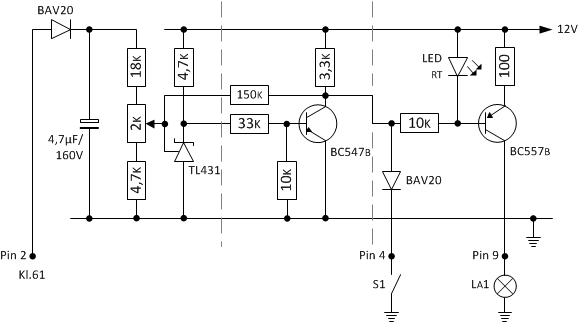
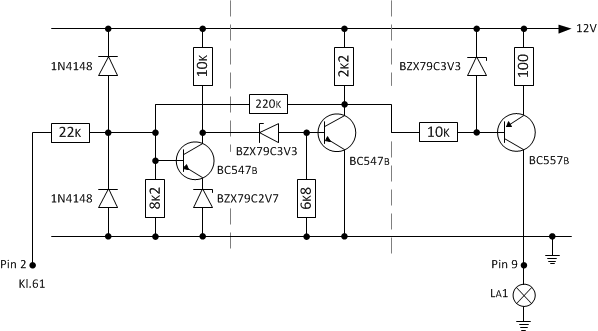
Update Indicator

diff --git a/pages/kontrollanzeige_1.md b/pages/kontrollanzeige_1.md
@@ -17,131 +17,125 @@ Die folgende Beispielschaltung soll an einem Fahrzeug mit 12V-Netz eine Kontroll
 ![Lade-/Öldruckkontrollanzeige](../images/Kontrollanzeige.png)
 
 ## Messen der Spannung an Kl.61
-Im Internet gibt es hierzu Beispielkonfiguration auf Basis eines TL431AC. Der TL431 ist laut Datenblatt [tl431.pdf](http://www.ti.com/lit/ds/symlink/tl431.pdf) eine "Programmable Voltage Reference", arbeitet im Prinzip als einstellbare Z-Diode. Der Baustein ist klein genug um kommt im TO92 Gehäuse daher. Mit einem
-Spannungsteiler an Vref lässt sich stufenlos eine Spannung zwischen circa 2,5V und 36V einstellen. Da intern ein Operationsverstärker genutzt wird, schaltet der TL431 mit hoher Genauigkeit.
+Im Internet gibt es hierzu Beispielschaltungen auf Basis eines NPN Transistor mit Z-Diode als Regeler. Die Schaltung arbeitet im Prinzip als einstellbare Z-Diode. Mit einem Spannungsteiler an Uref lässt sich stufenlos eine Spannung größer Uref einstellen. Die Referenzspannung Uref beträgt bei Nutzung einer Z-Dode von 2,7V und Ube von 0,7V (bei Ib = 10mA und Ib = 0,5mA) einen Wert von 3,4V:
 
-Der Spannungsteiler aus R1 und R2 lässt sich mit folgender Formel bestimmen.
+    Uref = Uz + Ube
+         = 2,7V + 0,7V
+         = 3,4V
 
-    Vin = (1+(R1/R2))*Vref
+Für einen Kollektorstrom von ca. 1mA wird nur ein schwacher Eingangsbasisstrom Ib (abhängig vom Gleispannungsverstärkung des Transistor siehe Datenblatt) von ca. 20 bis 40 μA benötigt, daher sollten R1 und R2 im Bereich kOhm liegen. Ein Spannungsverteilerverhältnis aus der E24-Normwerten 22k und 8,2k bringt den Transistor bei Uin = 12,5V zum schalten. Die Werte lassen sich mit folgender Formel bestimmen: 
 
-Durch die eng tolerierte Referenzspannung Vref von typischerweise 2,495V (siehe Datenblatt) und den schwachen Eingangsstrom an Vref (Iref) von 2 bis 4 μA (siehe Datenblatt) lässt sich der Spannungsteiler ziemlich genau berechnen. Mit den Normwerten 33k und 8,2k schaltet der TL431 bei Vin = 12,5V zwischen Katode und Anode durch.
+    Uin = (1 + R1/R2) * Uref
+        = (1 + 22k/8,2k) * 3,4V
+        = 12,5V
 
 ![Messen der Spannung an Kl.61 Abb. 1](../images/Messung_Spannung_Kl.61_1.png)
 
-Zum Schutz vor negativen Spannungsspitzen (bis zu -100V) wird zusätzlich eine Diode vom Typ BAV20 eingesetzt. Ein Kondensator (4,7μF / 160V) puffert bei kurzen Spannungseinbrüchen. An der Diode fällt in Durchlassrichtung eine Spannung von Uf = 0,8V ab (Vin ist somit 11,8V). Für eine Feinanpassung kann ein Potenziometer mit 2k eingesetzt werden. Mit den Normwerten von 18k und 4,7k und unter Berücksichtigung von Uf inkl. Toleranzen (E24-Normreihe mit 5% Toleranz) kann mit dem Potentiometer P1 in jedem Fall die gewünschte Spannungsschaltwerte von 12,6V eingestellt werden.
+Zum Schutz vor positiven und negativen Spannungsspitzen werden zusätzlich Dioden vom Typ 1N4148 am Punkt Uref eingesetzt.
 
-![Messen der Spannung an Kl.61 Abb. 2](../images/Messung_Spannung_Kl.61_2.png)
+Die Z-Diode soll bei allen Spannungen (Arbeitsbereich vom Instrument 10-15V) zuverlässig arbeitet. Um einen geringen Temperaturkoeffizient für eine Z-Diode von 2,7V zu erhalten (siehe Datenblatt) sollte R3 so dimensioniert sein, dass der Strom durch die Z-Diode ca. 1 mA beträgt. Zu beachten ist, dass die Regelschaltung mit Z-Diode die unpraktische Eigenschaft hat, dass die Spannung am Kollektor im durchgeschalteten Zustand nicht unter Uz sinken kann.
 
-Der TL431 soll bei allen Spannungen (Arbeitsbereich vom Instrument 10-15V) zuverlässig arbeitet. R4 muss so Dimensioniert sein, dass der Strom zwischen Katode und Anode Ika mindestens 1 mA und maximal 100 mA beträgt (siehe Datenblatt). Zu beachten ist, dass eine Anwendung des TL431 als Komparator die unpraktische Eigenschaft hat, dass die Spannung Vout im durchgeschalteten Zustand nicht unter Vka sinken kann.
+    R3(max) = (Umin-Ube-Uz)/Iz = 10V-0,2V-2,7V / 1mA = 7,1kOhm
+    R3(min) = (Umax-Ube-Uz)/Iz = 15V-0,2V-2,7V / 1mA = 12,1kOhm
 
-    R3(max) = (Vmin-Vka)/Ika(min) = 10V-2,5V / 1mA = 7,5kOhm
-    R3(min) = (Vmax-Vka)/Ika(max) = 15V-2,5V / 100mA = 125Ohm
-
-Bei einer Versorgungsspannung von 10-15V und einem Widerstand R3 von ca. 4,7kOhm beträgt der Strom zwischen Katode und Anode ca. 1,6 (bei 10V) bis 2,7mA (bei 15V).
+Bei einer Versorgungsspannung von 10-15V und einem Widerstand R3 von ca. 10kOhm beträgt der Kollektorstrom ca. 0,7mA (bei 10V) bis 1,2mA (bei 15V).
 
 ## Schalten der Versorgungsspannung
 Die Kontrollleuchte ist im Instrument gegen Masse geschaltet. Sie erfordert also das schalten Versorgungsspannung. Da dies weiterhin elektronisch passieren soll, nutzen wir hierzu ein PNP-Transistor. Hier liegt der Emitter an der Versorgungsspannung vom Fahrzeug (Kl. 30).
 
-Zur Anwendung kommt ein Transistor Typ BC557B (Datenblatt: [BC560.pdf](https://www.fairchildsemi.com/ds/BC/BC560.pdf)) der die Kontrollleuchte La1 bei 12V mit einer gemessenen Last von 2,7kOhm schalten soll. Vorteil des Transistors hier ist, dass der Spannungsabfall am Transistor bei _Durchschaltung_ nur ca. 0,1V bis 0,6V beträgt. 
+Zur Anwendung kommt ein Transistor Typ BC557B (Datenblatt: [BC560.pdf](https://www.fairchildsemi.com/ds/BC/BC560.pdf)) der die Kontrollleuchte La1 bei 12V mit einer gemessenen Last von 2,7kOhm schalten soll. Vorteil des Transistors hier ist, dass der Spannungsabfall Uce(sat) am Transistor bei _Durchschaltung_ nur ca. 0,3V bis 0,65V beträgt. 
 
 ![Schalten der Versorgungsspannung Abb. 1](../images/Schalten_der_Versorgungsspannung_1.png)
 
-Die Steuerspannungen Vbe am Transistor bezieht sich bei einem PNP-Transistor auf die positive Versorgungsspannung und nicht auf Masse. Ein PNP immer schaltet dann durch, wenn Vbe die Schaltschwelle unterschreiten, also Vin um Vbe kleiner ist als die Spannung Ve am Emitter.
+Die Steuerspannungen Ube am Transistor bezieht sich bei einem PNP-Transistor auf die positive Versorgungsspannung und nicht auf Masse. Ein PNP immer schaltet dann durch, wenn Vbe die Schaltschwelle unterschreiten, also Uin um Ube kleiner ist als die Spannung Ue am Emitter.
 
-Der Basiswiderstand R7 berechnet sich aus (Vbat-Vbe) / Ib. Etwas versteckt bei den Daten und der Kennlinie zu Vce(sat) (der Kollektor-Emitter-Sättigungsspannung) findet man eine Referenzwert für die Sättigung von Ic = 20*Ib. D.h. gerechnet wird mit einer Stromverstärkung in Sättigung von 20. Da nur kleine Ströme fließen (Ic < 10 mA und somit Ib < 0,5 mA) wird Vce(sat) mit dem im Datenblatt angegeben Wert von 0,3V angesetzt.
+Der Basiswiderstand R7 berechnet sich aus (Ubat-Ube) / Ib. Im Datenblatt findet sich für den BC557 Typ **B** eine Gleichspannungsverstärkung von 200. Mit einem Überbuchungsfaktor ü = 3 erhält man die Stromverstärkung Ic/Ib von 200/3 = 66. Da nur kleine Ströme fließen (Ic < 10 mA und somit Ib < 0,5 mA) wird Uce(sat) mit dem im Datenblatt zugehörigen angegeben Wert von 0,3V angesetzt.
 
-Die Versorgungsspannung vom Instrument beträgt 10V bis 15V. Etwa 0,7V fallen an der Basis-Emitter-Strecke ab (Vbe aus Kennlinie des Datenblatt für den BC557B geschätzt), also wird bei einer niedrigen Versorgungsspannung von 10V für eine vernünftige Durchschaltung ein passender Widerstand R7 benötigt.
+Die Versorgungsspannung vom Instrument beträgt 10V bis 15V. Etwa 0,7V fallen an der Basis-Emitter-Strecke Ube ab (bei Ic = 10mA), also wird bei einer niedrigen Versorgungsspannung von 10V für eine vernünftige Durchschaltung ein passender Widerstand R7 benötigt.
 
-    Ib(min) = Ic(min) / 20 = 3,4 mA / 20 = 0,17mA
-    R7(max) = Vbat(min) – Vbe / Ib(min) = (10V – 0,7V) / 0,17mA = 31,8kOhm
+    Ib(min) = Ic(min) / 66
+            = 10 mA / 66
+            = 0,15mA
 
-Der höchst zulässige Kollektorstrom IC für den Transistortyp beträgt max. 100mA mit einem zugehörigen Basisstrom Ib von 5mA (siehe Datenblatt). In dem Sättigungsbereich fallen bei hohen Strömen an der Basis-Emitter-Strecke 0,9V ab. Bei Versorgungsspannung von 15V ist der hierzu notwendige Basiswiderstand R7 ebenfalls zu berechnen.
+    R7(max) = Ubat(min) – Ube / Ib(min)
+            = (10V – 0,7V) / 0,15mA
+            = 62kOhm
 
-    Ib(max) = Ic(max) / 20 = 5,85 mA / 20 = 0,3mA
-    R7(min) = Vmax – Vbe / Ib(max) = (15V – 0,9V) / 5mA = 2,8kOhm
+Der höchst zulässige Kollektorstrom Ic für den Transistortyp beträgt max. 100mA mit einem zugehörigen Basisstrom Ib von 5mA (siehe Datenblatt). In dem Sättigungsbereich fallen bei hohen Strömen an der Basis-Emitter-Strecke 0,9V ab. Bei Versorgungsspannung von 15V ist der hierzu notwendige Basiswiderstand R7 ebenfalls zu berechnen.
+
+    R7(min) = Umax – Ube / Ib(max)
+            = (15V – 0,9V) / 5mA
+            = 2,8kOhm
 
 Für unseren Anwendungsfall verwenden wir für R7 ein Widerstand von 10kOhm der einen Basisstrom von ca. 0,9mA (bei 10V) bis 1,4mA (bei 15V) hervorruft.
 
-Damit die Transistorstufe zuverlässig arbeitet, kommt zusätzlich der Widerstand R6 zu Anwendung. Er vermeidet, dass der Transistor bei Störeinstrahlungen teilweise leitet, indem er den Basisanschluss auf die Versorgungsspannung vorspannt, so dass der Transistor sperrt. Erst mit Schalten von Vin gegen Masse wird die Spannung herabgesetzt, so dass der Transistor leitet. Der dabei fließende _Querstrom_ Iq soll ca. 3- bis 10-mal höher als der Basisstrom Ib sein.
-
-    R6(max) = (Vbat(min) - Vin(min)) / Iq(min) = 10V - 90mV / (Ib(min) * 3) = 9,9V / (0,9mA * 3) = 3,5k
-    R6(min) = (Vbat(max) - Vin(min)) / Iq(max) = 15V - 90mV / (Ib(max) * 10) = 14,9V / (1,4mA * 10) = 1,1k
-
-In unserem im Anwendungsfall verwenden wir für R6 ein Widerstand von 3,3kOhm.
+Damit die Transistorstufe zuverlässig arbeitet, kommt zusätzlich der Widerstand R6 zu Anwendung. Er vermeidet, dass der Transistor bei offenenem Eingang durch Störeinstrahlung teilweise leitet, indem er den Basisanschluss auf die Versorgungsspannung vorspannt, so dass der Transistor sperrt. In unserem im Anwendungsfall verwenden wir für R6 ein Widerstand von 2,2kOhm.
 
 ![Schalten der Versorgungsspannung Abb. 2](../images/Schalten_der_Versorgungsspannung_2.png)
 
-Da die Anschaltung von La1 erfolgt extern und der PNP-Transistor bei einer Fehlbeschaltung vom Kollektor nicht zerstört wird, wird eine Strombegrenzung eingebracht. Widerstand R8 und LED begrenzen den maximalen Kollektorstrom Ic(max) von La1 z.B bei _Kurzschluss_. Warum überhaupt eine LED? Durch Einsatz einer LED anstatt einer Z-Diode kann R8 klein gehalten werden. Zudem hat eine Konstantstromquelle mit LED einen kleineren Temperaturdrift und somit eine bessere Konstanz von Ic als z.B. zwei Dioden, die in Flussrichtung betrieben werden. 
+Da die Anschaltung von La1 erfolgt extern und der PNP-Transistor bei einer Fehlbeschaltung vom Kollektor nicht zerstört wird, wird eine Strombegrenzung eingebracht. Widerstand R8 und Z-Diode begrenzen den maximalen Kollektorstrom Ic(max) von La1 z.B bei _Kurzschluss_. 
 
-Die rote LED bewirkt, dass an der Basis von T2 nur eine maximale Spannung von Vf = 1,7V (bis 2V, je nach LED) erreicht werden kann. Die zugehörige Basis-Emitter-Spannung Vbe von T2 wird mit 0,7V angesetzt. Der maximale Strom wird erreicht, wenn der Spannungsabfall an R8 den Wert von 1V (Vf - Vbe) erreicht. Der Widerstand R8, für einen vorgebenen maximalen Strom von 10mA, lässt sich wie folgt berechnen:
+Die Z-Diode bewirkt, dass an der Basis von T2 nur eine maximale Spannung von Uf = 3,3V erreicht werden kann. Die zugehörige Basis-Emitter-Spannung Vbe von T2 wird mit 0,7V angesetzt. Der maximale Strom wird erreicht, wenn der Spannungsabfall an R8 den Wert von 2,6V (Uf - Ube) erreicht. Der Widerstand R8, für einen vorgebenen maximalen Strom von 25mA, lässt sich wie folgt berechnen:
 
-    R8(min) = (Vf - Vbe) / Ic(max) = 1,7V – 0,7V / 10mA = 100 Ohm
+    R8(min) = (Uf - Ube) / Ic(max) = 3,3V – 0,7V / 25mA = 104 Ohm
 
-Für R8 wird ein Wert von 100 Ohm gewählt, der den Strom Ic(max) auf ca. 10..11 mA begrenzt (Vbe ca. 0,6..0,7 V). Die maximale Verlustleistung für R8 unter _Last_ beträgt weniger als 1/4 Watt:
+Für R8 wird ein Wert von 100 Ohm gewählt, der den Strom Ic(max) auf ca. 26 mA begrenzt. Die maximale Verlustleistung für R8 unter _Last_ beträgt weniger als 1/2 Watt:
 
-    Pmax = (Vbat(max) - Vce(sat)) * Ic = (15V – 0,3V) * 10mA = 0,15W
+    Pmax = (Ubat(max) - Uce(sat)) * Ic
+         = (15V – 0,3V) * 10mA
+         = 382mW
 
-Die Verlustleistung am Transistor beträgt bei _Kurzschluss_ ebenfalls nur ca. 0,15W. Die Berechnung erfolgt über die Kollektor-Emitter-Spannung Vce = Vbat(max) - V(R8) bei maximalen Strom Ic(max):
+Die Verlustleistung am Transistor beträgt bei _Kurzschluss_ ebenfalls nur ca. 0,3W. Die Berechnung erfolgt über die Kollektor-Emitter-Spannung Uce = Ubat(max) - U(R8) bei maximalen Strom Ic(max):
 
-    Pmax = (Vbat(max) - V(R8)) * Ic = (15V – 1V) * 10mA = 0,15W
-
-Die Kontrollanzeige La1 soll bei Verlust des Öldrucks zur Anzeige kommen. Der Öldrucksensor S1 schaltet gegen Masse. Die Integration des Sensors erfolgt unter Nutzung einer Schutzdiode.
+    Pmax = (Ubat(max) - U(R8)) * Ic
+         = (15V – 2,6V) * 26A
+         = 322mW
 
 ## Invertieren der Messstufe
 Es soll mit _positiver_ Logik geschaltet werden, also fügen wir eine NPN-Schaltstufe hinzu, die den Eingang der PNP-Schaltstufe versorgt. Zur Anwendung kommt der passende NPN-Transistor Typ BC547B (Datenblatt: [BC547.pdf](https://www.fairchildsemi.com/datasheets/BC/BC547.pdf)).
 
 ![Invertieren der Messstufe](../images/Invertieren_der_Messstufe.png)
 
-Die Beschaltung von R4 und R5 zu R3 muss im passenden Verhältnis zu den anliegenden Pegeln ausgesucht werden. Die Ansteuerung Vin erfolgt in Abhängigkeit vom TL431 die _Messstufe_. Im Schaltzustand _High_ liegt die Versorgungsspannung Vbat über den Widerstand R3 an. Im _Low_-Zustand liegt ein Potenzial an Vin von konstanten 2,5V hat.
+Die Dimensionierung der Inverterstufe muss passend zu den anliegenden Pegeln erfolgen. Die Ansteuerung erfolgt in Abhängigkeit von der _Messstufe_. Im Schaltzustand _High_ liegt die Versorgungsspannung Ubat über den Widerstand R3 an. Im _Low_-Zustand hat das Potenzial Uz + Uce(sat):
 
-Der notwenige Basisstrom Ib(min) für das Durchschalten des Transistors lässt sich mit der oben genannten Formel Ic = 20*Ib errechnen. Vce(sat) wird hier (wie oben) mit 90mV angesetzt.
+    Uol = Uz + Uce(sat)
+        = 2,7V + 0,3V
+        = 3V
 
-    Ic(max) = I(R6) + Iout = (Vbat(max) – Vce(sat)) / R6 + Iout(max) = (15V - 90mV) / 3.3k + 1,4mA = 6mA
-    Ib(min) = Ic(max) / 20 = 6mA / 20 = 0,3mA
+Der Widerstand R5 vermeidet, dass der Transistor bei Störeinstrahlungen teilweise leitet. Die Z-Diode hat den Zweck die Schaltschwelle über den Transistor zu erhöhen, was hier bedeutet, dass die Schaltschwelle für den Pegel _High_ verschoben wird. Die zugehörige Schaltschwelle Uih lässt wie folgt errechnen:
 
-Der daraus resultierende maximale Widerstand für R3 und R4 lässt sich über folgende Formel berechnen.
+    Uih = Uz + Ube
+        = 3,3V + 0,7V
+        = 4V
 
-    (R3+R4)max = (Vbat(max) – Vbe) / Ib(min) = (15V – 0,7V) / 0,3mA = 48k
-
-Der Widerstandswert R3 beträgt 4,7kOhm (siehe Messstufe). Für R4 wählen wir den nächst passenden Widerstandswert von 33kOhm aus der E12 Reihe, der den oben genannten Maximalwert nicht übersteigt.
-
-R5 hat zusammen mit R3 und R4 den Zweck die Schaltschwelle über den Transistor zu erhöhen, was hier bedeutet, dass die Schaltschwelle an Vin Richtung Versorgungsspannung verschoben wird. Der Widerstand R5 vermeidet auch, dass der Transistor bei starken Störeinstrahlungen teilweise leitet. Die zugehörige Schaltschwelle Ves lässt wie folgt errechnen:
-
-    Ves = ((R3 + R4) / R5 + 1) * Vbe = ((4,7k + 33k) / 10k + 1) * 0,7V = 4,5V
-
-Die Differenz zur Schaltschwelle der Messstufe (bei _Low_ definiert über Vka = 2,5V) liegt also bei ca. +2V.
+Die Differenz zur Schaltschwelle der Messstufe beträgt somit ca. 1V.
 
 ## Einbringen einer Hysterese
-Der TL431 wird bei minimalen Über- oder Unterschreiten der Referenzspannung bzw. der definierten Eingangsspannung hin und her kippen. Durch Einbringung definierter Schaltschwellen, die sich voneinander durch eine entsprechende Spannungsdifferenz unterscheiden, kann jedoch das Gesamtverhalten gegenüber Rauschen oder Störsignale verbessert werden.
+Der _Messtufe_ wird bei minimalen Über- oder Unterschreiten der Referenzspannung bzw. der definierten Eingangsspannung hin und her kippen. Durch Einbringung definierter Schaltschwellen, die sich voneinander durch eine entsprechende Spannungsdifferenz unterscheiden, kann jedoch das Gesamtverhalten gegenüber Rauschen oder Störsignale verbessert werden.
 
-Die Erzeugung dieser Schalthysterese kann wie bei einem [Komperator](https://de.wikipedia.org/wiki/Komparator_(Analogtechnik)) mit Hilfe einer Mitkopplung erreicht werden. In unserem Fall indem ein Teil der Ausgangsspannung Vout von T1 (nicht-invertierende Spannung zum Eingang) an den Eingang Ref (Komperator +) des TL431 zurückgeführt wird. Dazu wird lediglich ein Widerstand (R9) benötigt.
+Die Erzeugung dieser Schalthysterese kann mit Hilfe einer Mitkopplung erreicht werden. In unserem Fall indem ein Teil der Ausgangsspannung von der _Inverterstufe_ an den Eingang Ref der _Messtufe_ zurückgeführt wird. Dazu wird lediglich ein Widerstand (R9) benötigt.
 
-![Schmitt-Trigger](../images/Schmitt-Trigger.png)
+Eine solche Schaltung wird als (nicht-invertierender) [Schmitt-Trigger](https://de.wikipedia.org/wiki/Schmitt-Trigger) bezeichnet. Berechnet wird die Hysterese durch Nutzung folgender Formeln (bei Uin = Ubat und unter Vernachlässigung von R6 weil R9 >> R6):
 
-Eine solche Schaltung wird als (nicht-invertierender) [Schmitt-Trigger](https://de.wikipedia.org/wiki/Schmitt-Trigger) bezeichnet. Berechnet wird die Hysterese durch Nutzung folgender Formeln (bei Vin = Vbat und unter Vernachlässigung von R6 weil R9 >> R6):
+    U(low) = Uref * (R1||R9 + R2) / R2
+           = (Uz + Ube) * (R1/R2 * R9/(R1+R9) + 1)
+           = 3,4V * (22k/8,2k * 220k/(22k+220k) + 1)
+           = 11,7V
 
-    V(low) = Vref * (R1||R9 + R2) / R2 + Vf
-           = 2,5V * (R1/R2 * R9/(R1+R9) + 1) + 0,8V
-           = 2,5V * (18k/4,7k * 150k/(18k+150k) + 1) + 0,8V
-           = 11,8V
-
-    V(high) = Vref * (R1 + R2||R9) / (R2||R9) + Vf
-            = 2,5V * (R1/R2 * (R2+R9)/R9 + 1) + 0,8V
-            = 2,5V * (18k/4,7k * (4,7k+150k)/150k + 1) + 0,8V
-            = 13,2V
+    U(high) = Uref * (R1 + R2||R9) / (R2||R9)
+            = (Uz + Ube) * (R1/R2 * (R2+R9)/R9 + 1)
+            = 3,4V * (22k/8,2k * (8,2k+220k)/220k + 1)
+            = 12,9V
 
 ## Quellen und weiterführende Literatur
 
 ### Links
-- Wikipedia; [Starterbatterie](http://de.wikipedia.org/wiki/Starterbatterie#Wartung,_Pflege_und_Prüfung)
-- Pauls Werkstatt von Paul; [Ladekontrollleuchte mit TL431](http://pauls-werkstatt.blogspot.de/2015/06/ladekontrollleuchte-mit-tl431.html)
-- Netzmafia von Prof. Jürgen Plate; [Präzisions-Shunt-Regler TL431](http://www.netzmafia.de/skripten/hardware/TL431/index.html)
-- Mikrocontroller.net; [Unterspannungsabschaltung gesucht](http://www.mikrocontroller.net/topic/340319#3744991)
-- Mikrocontroller.net; [LTspice Schaltung mit TL431 so richtig?](http://www.mikrocontroller.net/topic/380034#4323523)
-- DL6GL von Georg Latzel; [Schalten mit Transistoren](http://dl6gl.de/grundlagen/schalten-mit-transistoren)
+- Elektroniktutor.de; [Regelverstärker zur Spannungsstabilisierung](https://elektroniktutor.de/analogtechnik/regelvst.html)
 - Elektronik-Kompendium; [Schalten und Steuern mit Transistoren I](http://www.elektronik-kompendium.de/public/schaerer/powsw1.htm)
-- Elektronik-Kompendium; [Schmitt-Trigger (nicht-invertierender)](http://www.elektronik-kompendium.de/sites/bau/0209241.htm)
-- Elektronik-Kompendium; [Transistor-LED-Konstantstromquelle](http://www.elektronik-kompendium.de/public/schaerer/currled.htm)
+- DL6GL von Georg Latzel; [Schalten der Versorgungsspannung](http://dl6gl.de/grundlagen/schalten-mit-transistoren)
+- Wikipedia; [Starterbatterie](http://de.wikipedia.org/wiki/Starterbatterie#Wartung,_Pflege_und_Prüfung)
+- Wikipedia; [Konstantstromquelle](http://de.wikipedia.org/wiki/Konstantstromquelle#Mit_Bipolartransistor)
+- Mikrocontroller.net; [Unterspannungsabschaltung gesucht](http://www.mikrocontroller.net/topic/340319#3744991)
 
 ### Nächste Seite
 Weiter geht's mit [Lade- und Öldruckkontrollanzeige mit CMOS](kontrollanzeige_2.html).
